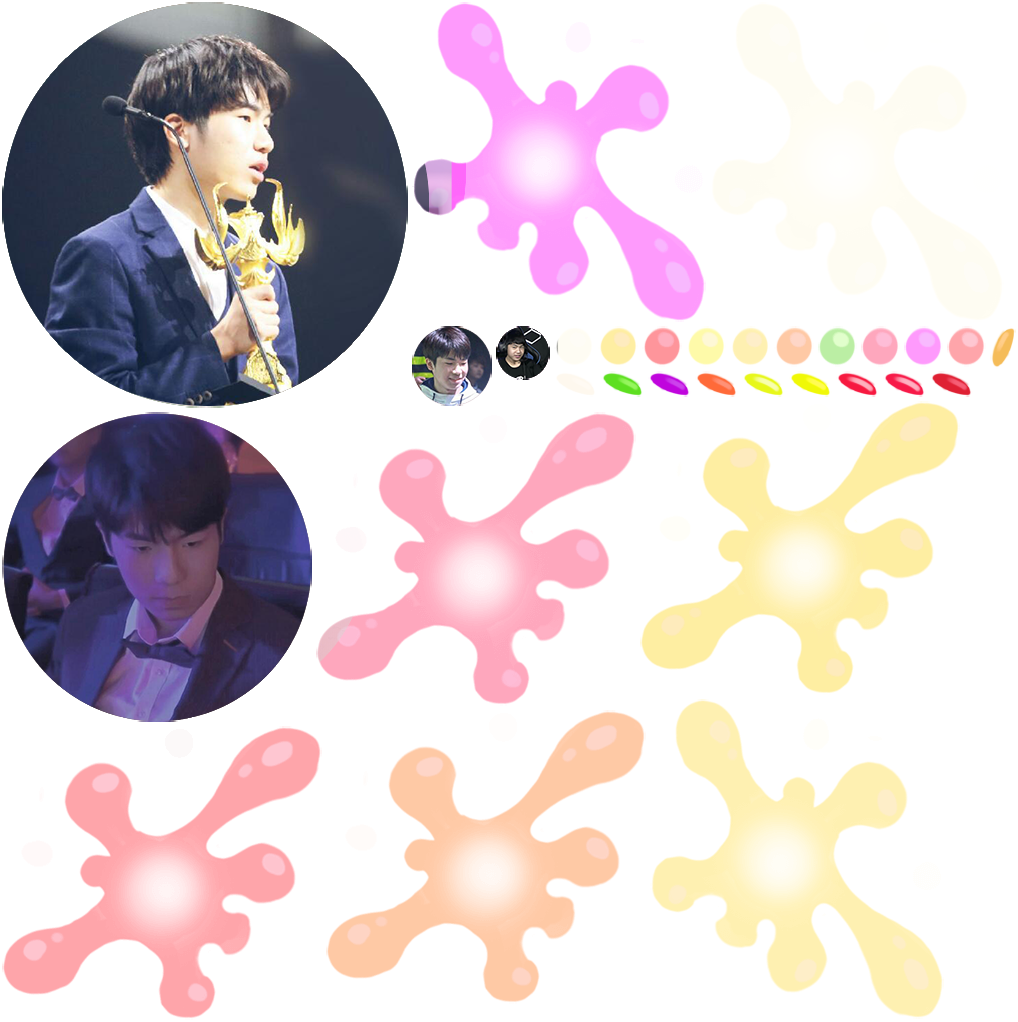
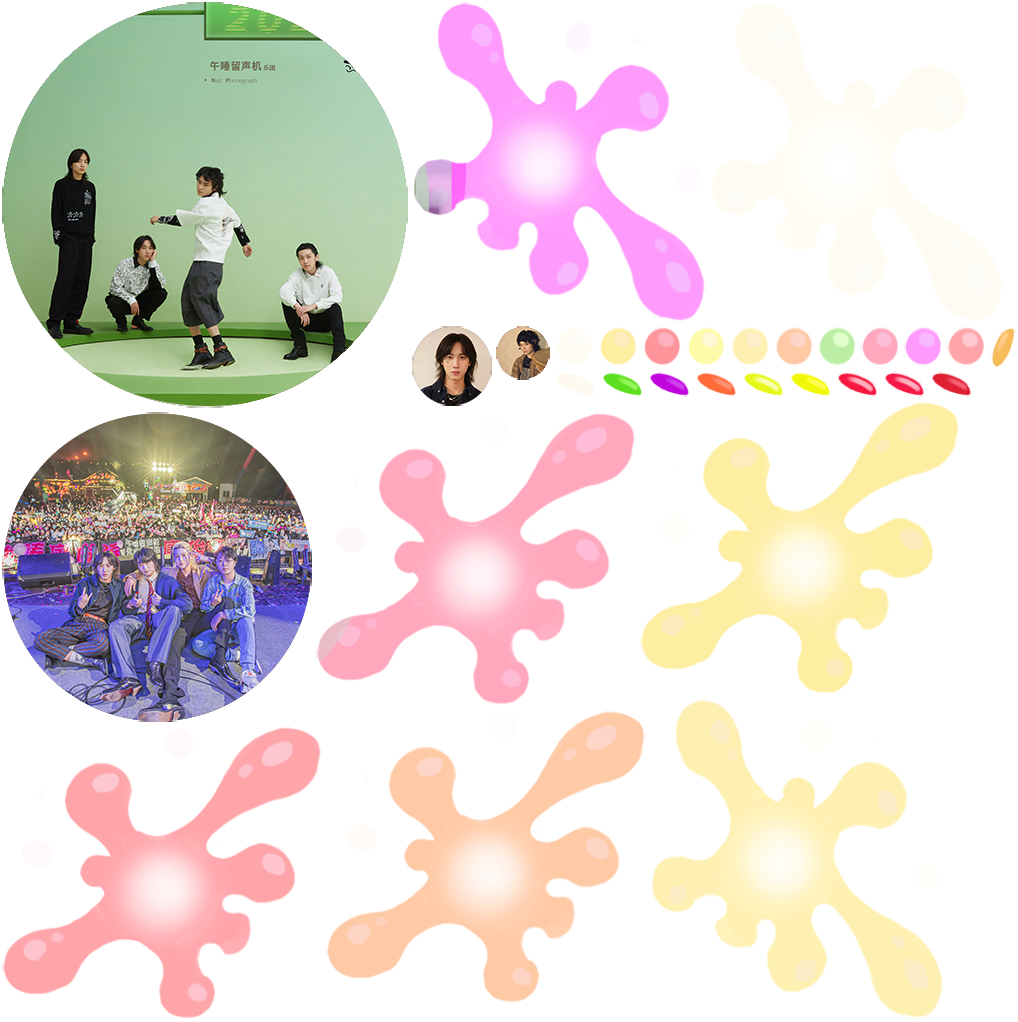
nitial commit

Changed region(s): [[0.0, 0.0, 0.4263, 0.728], [0.3959, 0.3033, 0.5481, 0.3943]]

diff --git a/index.html b/index.html
@@ -4,7 +4,7 @@
 <head>
     <meta charset="utf-8">
 
-    <title>合成花海海</title>
+    <title>合成大午睡</title>
 
     <!--http://www.html5rocks.com/en/mobile/mobifying/-->
     <meta name="viewport" content="width=device-width,user-scalable=no,initial-scale=1, minimum-scale=1,maximum-scale=1" />
@@ -109,7 +109,7 @@
             //        console.log("window.navigator.language",window.navigator.language);
 
             if (window.navigator.language == "zh-CN" || window.navigator.language == "zh-cn") {
-                document.title = "合成花海海";
+                document.title = "合成大午睡";
             } 
 
 
